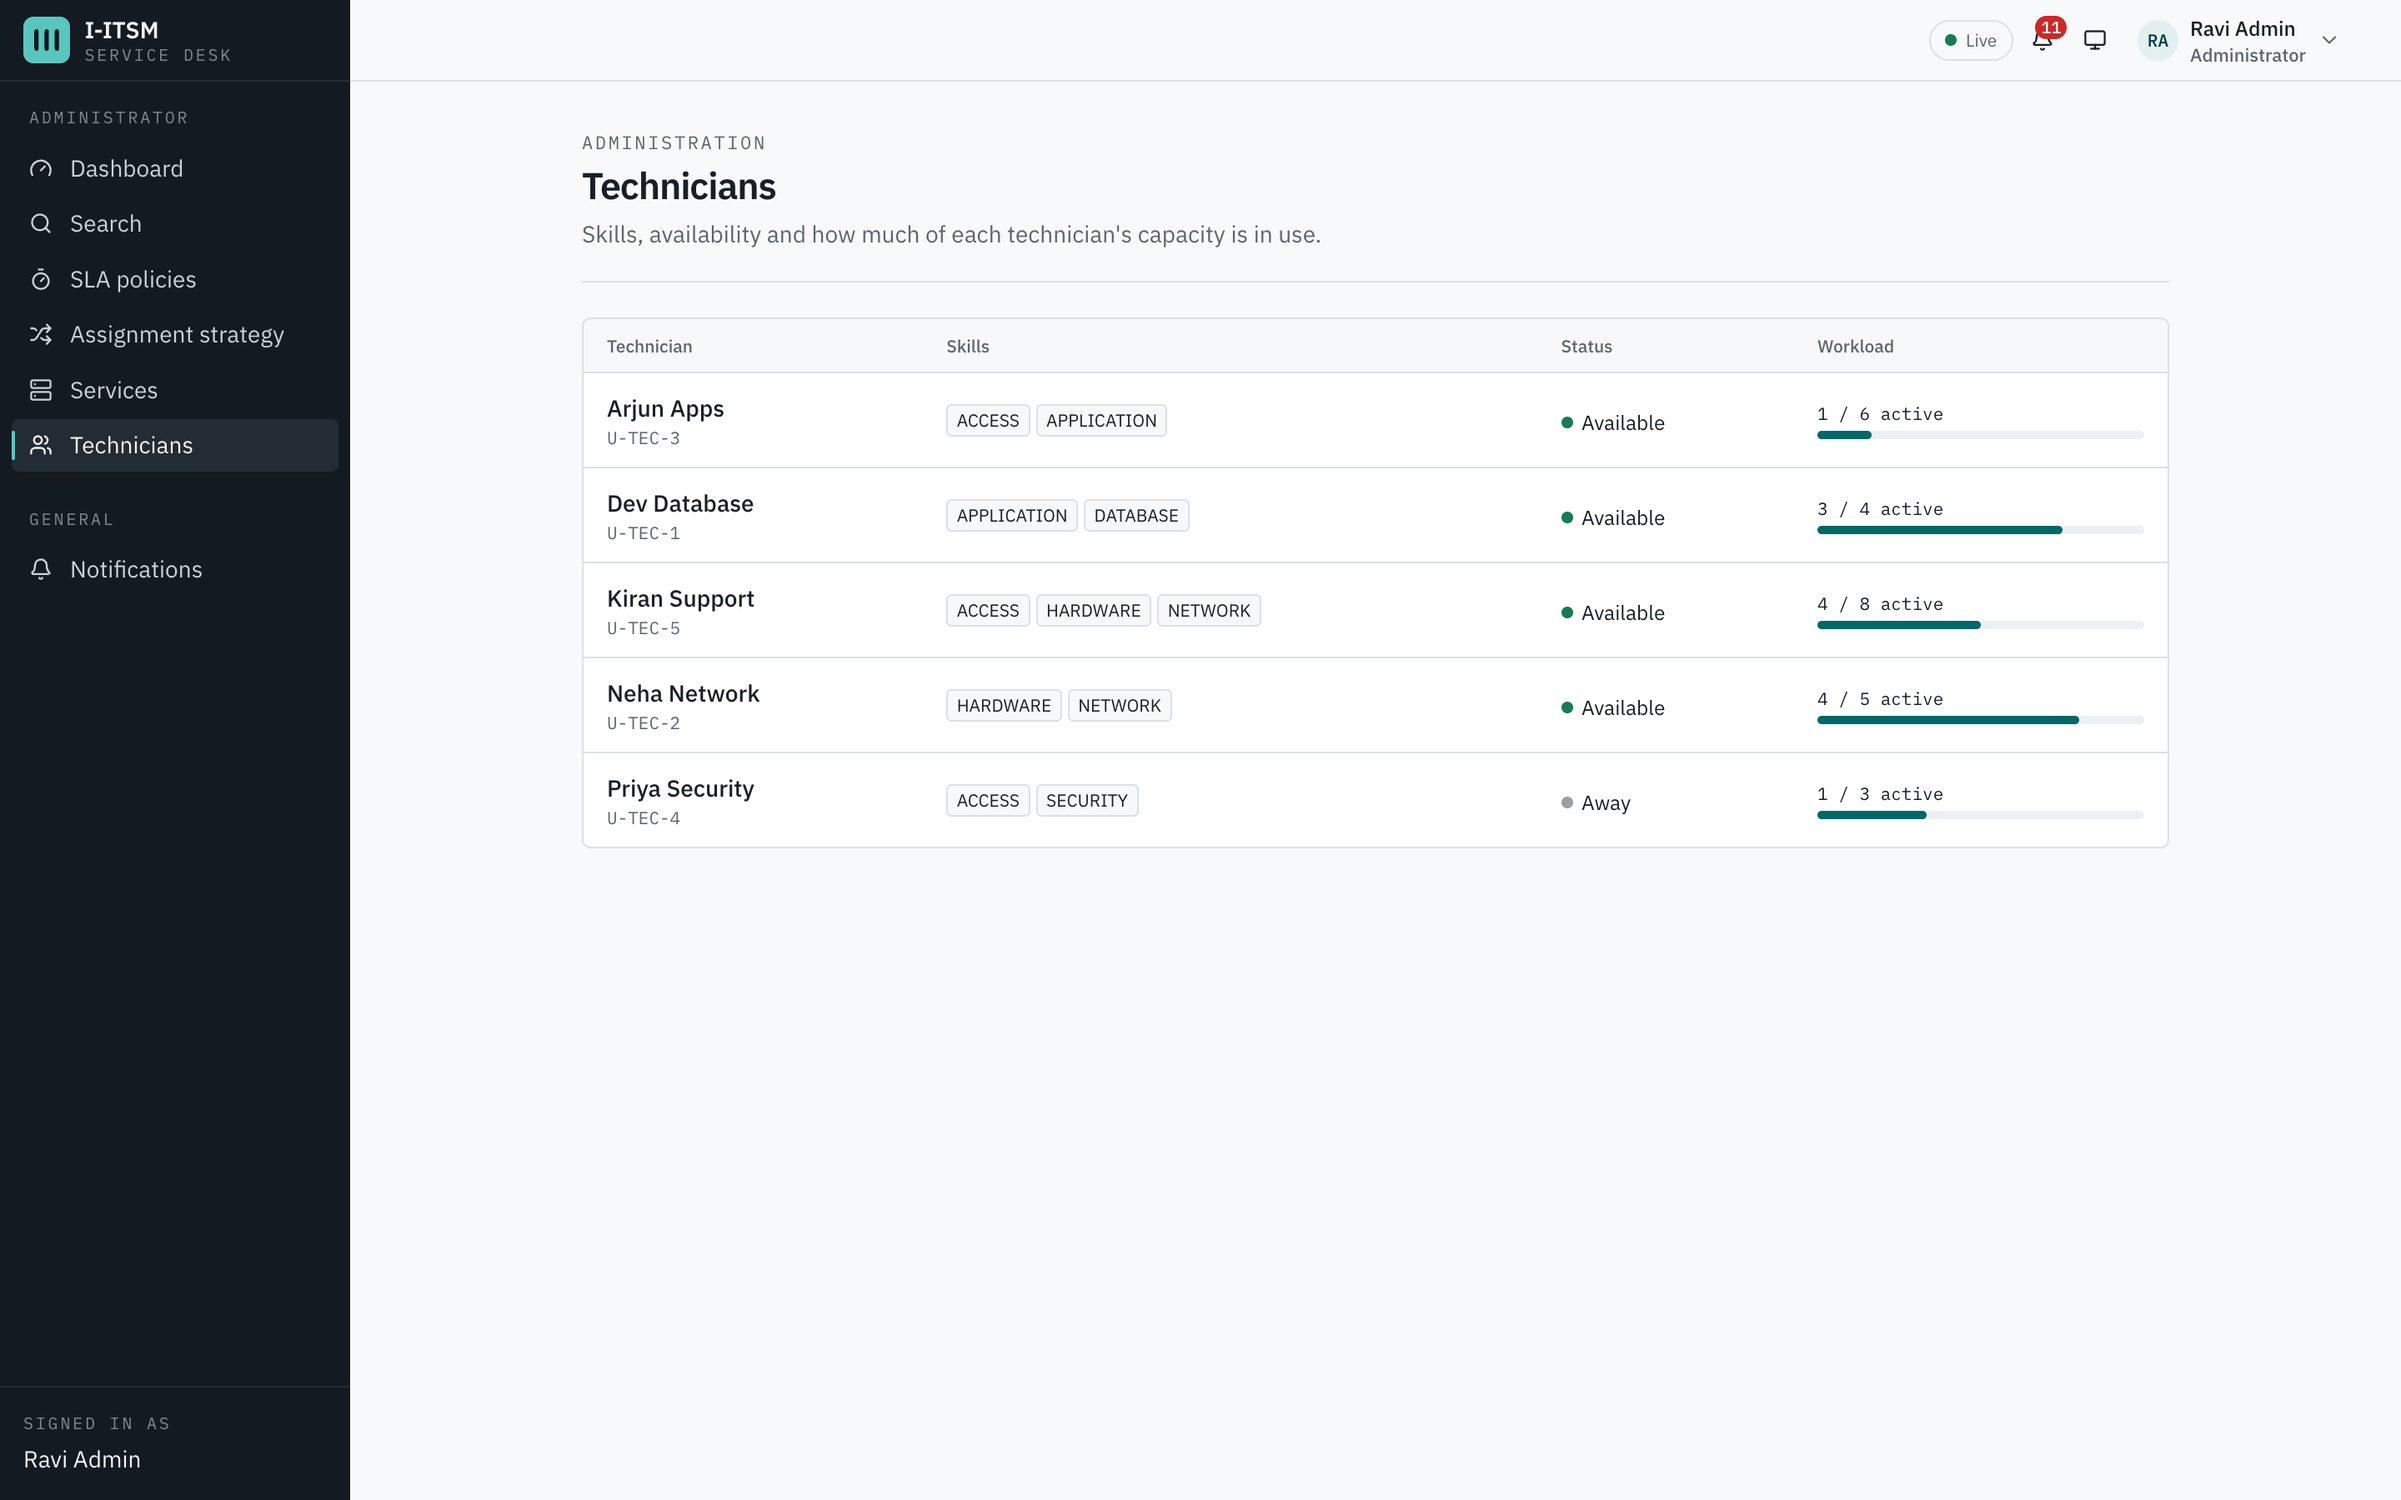
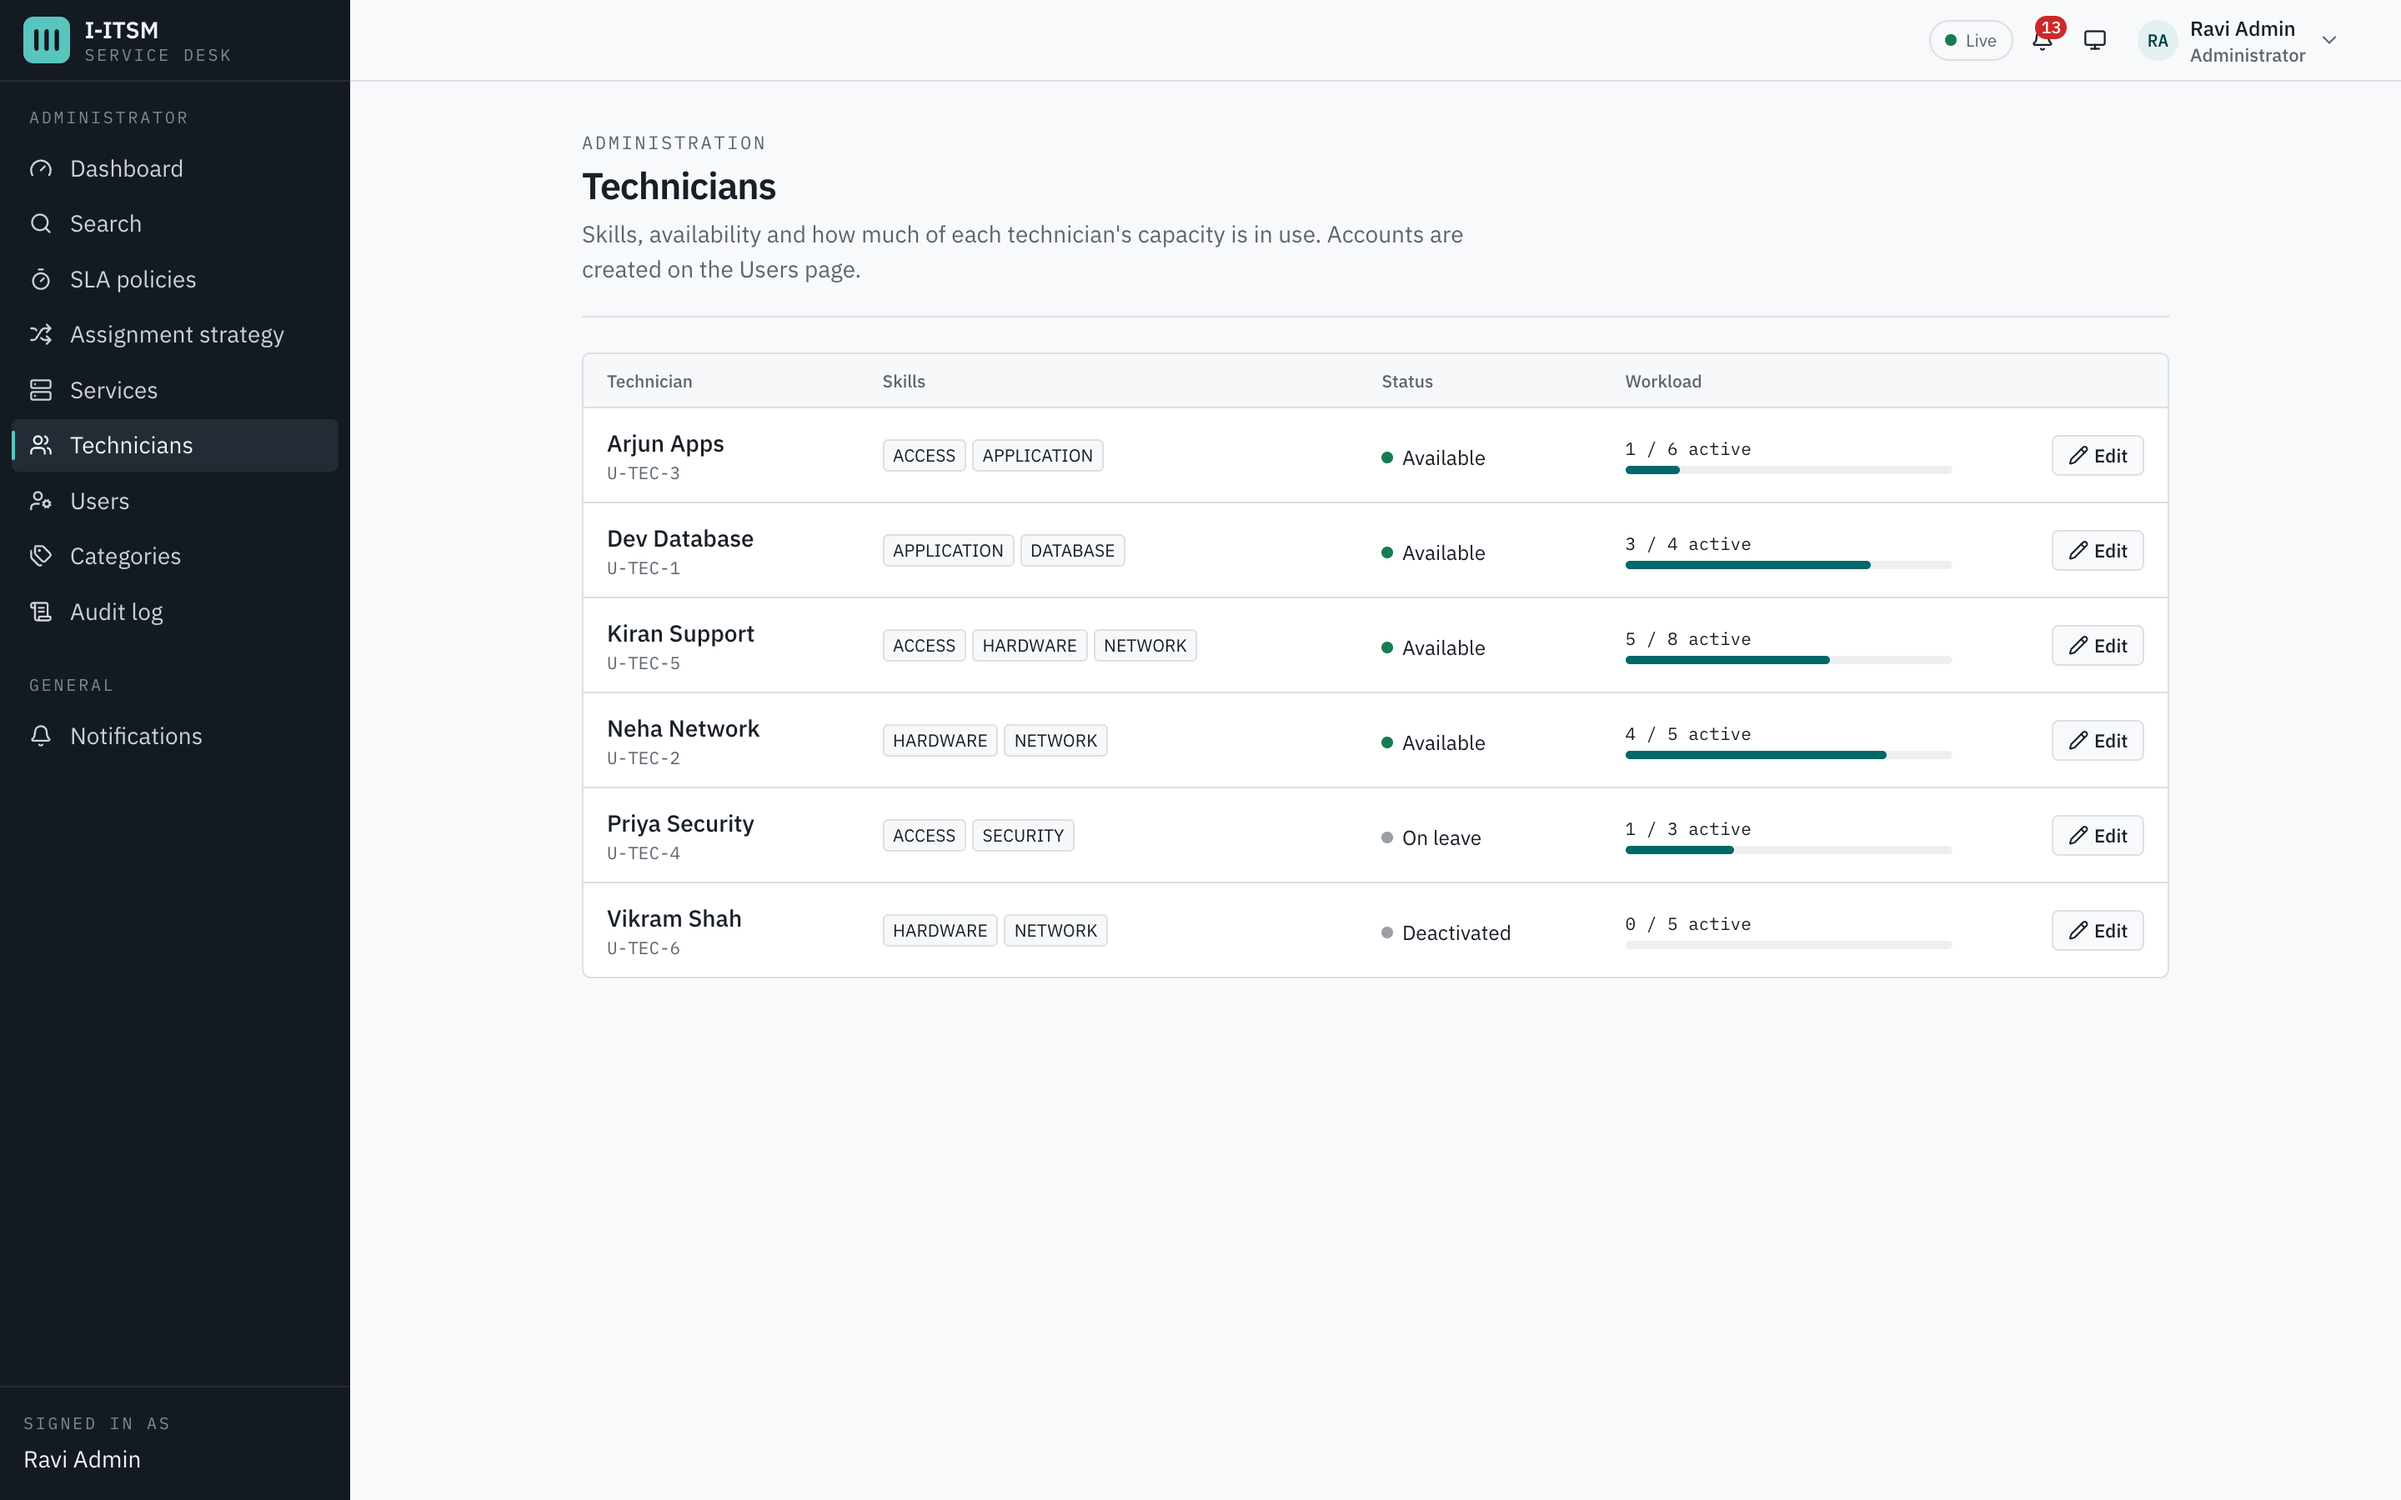
Re-capture report screens for v1.1
- Updated: login (Register link), technician queue (workload, P1 edge), dashboard (rating), technicians
- New: register, information requested banner, feedback, admin users / new technician,
  categories, technician edit, audit log (all and filtered)

diff --git a/report/figures/README.md b/report/figures/README.md
@@ -3,6 +3,9 @@
 Images for the project report. Screenshots were taken with Playwright against the running app
 (frontend on http://localhost:5173, backend on 8080, demo data) at a 1440×900 viewport with
 deviceScaleFactor 2, in light mode unless the caption says otherwise. Demo logins use password123.
+The v1.1 screens (marked v1.1 below) were taken the same way against v1.1 (frontend on 5174,
+backend on 8081 with a fresh copy of the demo data). Existing figure numbers are unchanged;
+new screens are numbered from 31.
 
 ## diagrams/
 
@@ -21,25 +24,34 @@ deviceScaleFactor 2, in light mode unless the caption says otherwise. Demo login
 
 | Fig. | File | Caption |
 |------|------|---------|
-| 6 | `login-page.png` | Login page with the incident lifecycle panel showing who performs each step. |
+| 6 | `login-page.png` | Login page with the incident lifecycle panel showing who performs each step, and the Register link for new employees (v1.1). |
 | 7 | `employee-my-incidents.png` | Employee view: My incidents with status, priority, SLA countdown and risk. |
 | 8 | `employee-report-duplicates.png` | Report form: the "Possibly already reported" panel lists similar open incidents while the employee types. |
 | 9 | `employee-incident-detail.png` | Incident detail (INC-0032) with the SLA panel, affected-service impact and the start of the history timeline. |
-| 10 | `technician-queue.png` | Technician: My queue, sorted by most urgent SLA, with the SLA column and quick actions. |
+| 10 | `technician-queue.png` | Technician (Kiran): My queue, sorted by most urgent SLA, with the "My workload" bar (5 / 8 active) and a red left border on the P1 incident INC-0036, assigned to Kiran as the #2 recommendation (v1.1). |
 | 11 | `technician-at-risk.png` | Technician: At risk, breached first, then by how much of the SLA window is used. |
 | 12 | `technician-incident-actions.png` | Technician incident detail with the lifecycle action button (Start work) and the note form. |
-| 13 | `admin-dashboard.png` | Admin dashboard for the last 30 days: KPIs, lifecycle and priority charts, Needs attention list. |
-| 13 | `admin-dashboard-full.png` | The same dashboard, full page, including the category, SLA-per-priority and workload charts. |
+| 13 | `admin-dashboard.png` | Admin dashboard for the last 30 days: KPIs including the average feedback rating (4.4 / 5 from 8 ratings), lifecycle and priority charts, Needs attention list (v1.1). |
+| 13 | `admin-dashboard-full.png` | The same dashboard, full page, including the category, SLA-per-priority and workload charts (v1.1). |
 | 14 | `admin-search-filtered.png` | Admin search with two filters applied (status In progress, SLA breached). |
 | 15 | `admin-recommendations.png` | Recommended technicians for an unassigned P1 (INC-0036), ranked with the reasons behind each score. |
 | 16 | `admin-sla-policies-check.png` | SLA policies per priority and the result of a manual "Run SLA check (now)". |
 | 17 | `admin-assignment-strategy.png` | Assignment strategy page: switch between load-based and skill-based assignment at runtime. |
 | 18 | `admin-services-graph.png` | Services page: dependency table and the Impact explorer for an outage of Network. |
 | 18 | `admin-services-impact-graph.png` | Close-up of the Network impact graph: 11 services affected, up to 3 hops away. |
-| 19 | `admin-technicians.png` | Technicians with skills, availability and workload against capacity. |
+| 19 | `admin-technicians.png` | Technicians with skills, availability (Available / On leave / Deactivated), workload against capacity and an Edit button per row (v1.1). |
 | 20 | `notifications.png` | Notifications page for an employee: readable messages linked to each incident. |
 | 21 | `dark-mode-tablet-queue.png` | Technician queue in dark mode at tablet width (820 px), with the collapsed sidebar. |
 | 22 | `swagger-ui.png` | Swagger UI for the I-ITSM API with bearer-token authorisation. |
+| 31 | `register-page.png` | Self-registration: the new employee's name, work email and password (v1.1). |
+| 32 | `employee-info-requested.png` | Reporter view of INC-0032: the highlighted "Information requested" banner with the technician's question, the notes-and-comments thread and the answer box (v1.1). |
+| 33 | `employee-incident-feedback.png` | INC-0024 after the reporter verified it with feedback: Reporter feedback panel (5/5 · Excellent with a comment) and the FEEDBACK_GIVEN history entry (v1.1). |
+| 34 | `admin-users.png` | Admin Users page: every account with role and status; the admin's own row cannot be deactivated (v1.1). |
+| 35 | `admin-users-new-technician.png` | New user dialog creating a technician: role, max workload and skills (v1.1). |
+| 36 | `admin-categories.png` | Admin Categories page, including PRINTING, added by an administrator (v1.1). |
+| 37 | `admin-technician-edit.png` | Edit technician dialog: skills, on leave and max workload, with the current workload as a lower limit (v1.1). |
+| 38 | `admin-audit-log.png` | System-wide audit log, newest first, with filters for incident, user, action and dates (v1.1). |
+| 39 | `admin-audit-log-filtered.png` | Audit log filtered to INC-0022: the technician's INFO_REQUESTED and the reporter's INFO_PROVIDED at the top (v1.1). |
 
 ## testing/
 

diff --git a/docs/learning-log-frontend.md b/docs/learning-log-frontend.md
@@ -833,3 +833,20 @@ frontend and backend work can happen in parallel without editing the same file.
       disabled. The audit log filtered to INC-0032 shows Kiran's "Info requested" first.
     - The report form offers the new PRINTING category.
     - Console: no errors apart from the expected 409.
+
+---
+
+### 2026-11-22: Slice F6 (screens) · Report screenshots for v1.1
+
+- **What was built:**
+  - Retaken: `login-page`, `technician-queue`, `admin-dashboard(-full)`, `admin-technicians`.
+  - New: `register-page`, `employee-info-requested`, `employee-incident-feedback`, `admin-users`,
+    `admin-users-new-technician`, `admin-categories`, `admin-technician-edit`, `admin-audit-log` and
+    `admin-audit-log-filtered`, in `report/figures/screens/`. Captions are in `report/figures/README.md`.
+- **How:** Playwright at 1440×900, deviceScaleFactor 2, light mode, against v1.1 on a scratch copy of
+  the demo data. For the queue figure, INC-0036 (unassigned P1) was assigned to the #2 recommendation
+  (Kiran Support), so his queue shows the red P1 edge and "5 / 8 active".
+- **Lesson:** in the long-running Playwright tab, clicks stopped reaching React halfway through the
+  check (typing still worked; calling the button's handler directly opened the dialog). A fresh
+  browser context behaved normally, so the remaining checks and all screenshots used a new context.
+  When a browser test fails strangely, retry in a clean context before changing the app.
